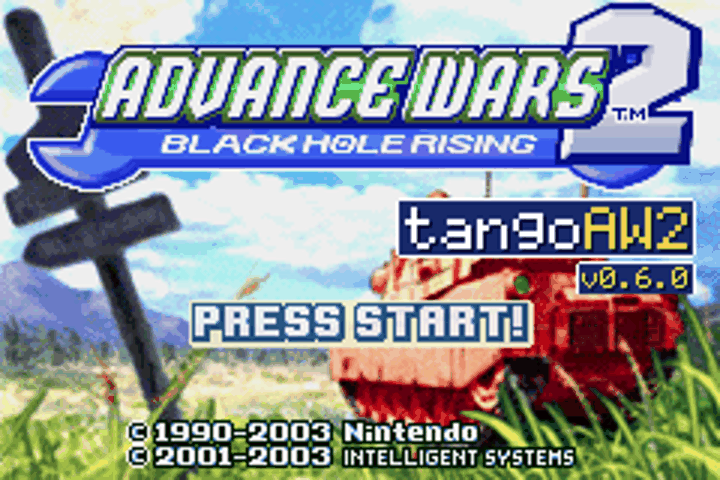
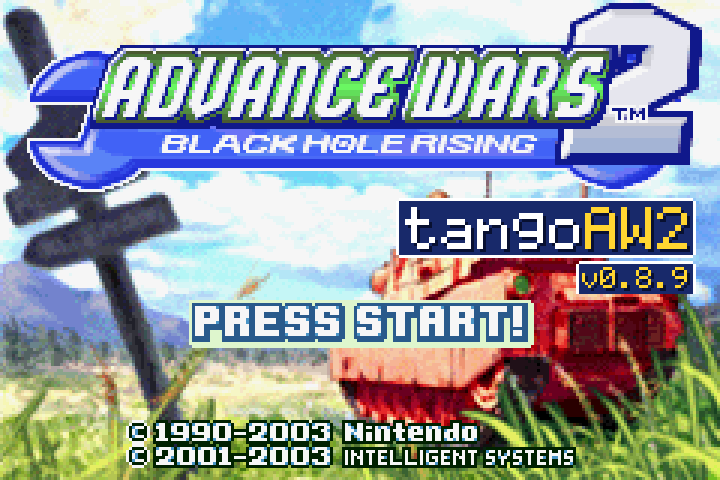
README: new pictures (v0.8.9 title, Emerald Sun Campaign, Emerald Sun Versus, Asuka, BH Campaign) and the Emerald Sun Campaign line

diff --git a/tools/aw2test/tests/test_readme_pictures.py b/tools/aw2test/tests/test_readme_pictures.py
@@ -1,212 +1,82 @@
-"""The README's battle pictures in Dual Strike's look (`-k readme_`, run with TANGOAW2_DS_GRAPHICS=1 TANGOAW2_TILT=1): raw
-240x160 BMPs in the folder named by AW2TEST_SHOWCASE_DIR (scaled 3x nearest to 720x480 PNGs by the caller). The BH
-Campaign's pictures come from test_bh_showcase.py (`-k bh_showcase`), taken with the same two variables."""
+"""Pictures for the README (opt-in: `AW2TEST_README_DIR=<dir> python3 tools/aw2test/run.py -k readme_pictures`): the title screen with the version badge, and a
+picture of every fully typed box of an Emerald Sun mission's intro (`AW2TEST_README_MISSION`, default 1) for choosing the story scene. 240x160 BMPs, plus 3x
+nearest-neighbour PNGs (720x480, the README's size) when PIL is there."""
 
 import os
-import shutil
-import sys
 
-sys.path.insert(0, os.path.dirname(os.path.abspath(__file__)))
-
-from aw2test import dscampaign as dc
-from aw2test import rom as romlib
-from aw2test import twofront as tf
+from aw2test import bhact2 as a2
+from aw2test import escampaign as es
+from aw2test import paths
 from aw2test.emu import Emu
-from aw2test.game import Game
-from aw2test import paths, survival as sv
 from aw2test.harness import test
-from aw2test.save import DesignMap
-
-OUT = os.environ.get("AW2TEST_SHOWCASE_DIR")
+from aw2test.story import clean
 
 
-def keep(ctx, e, name):
-    p = e.shot(os.path.join(ctx.out, name))
-    if OUT:
-        os.makedirs(OUT, exist_ok=True)
-        shutil.copy(p, os.path.join(OUT, name + ".bmp"))
-    return p
-
-
-def settle(g, x, y, frames=40):
-    for _ in range(4):
-        try:
-            g.goto(x, y)
-            break
-        except Exception:
-            g.e.wait(150)
-    g.e.wait(frames)
+def _save(e, out, name):
+    p = e.shot(os.path.join(out, name))
+    try:
+        from PIL import Image
+        im = Image.open(p).convert("RGB")
+        im.resize((im.width * 3, im.height * 3), Image.NEAREST).save(os.path.join(out, name + ".png"))
+    except ImportError:
+        pass
 
 
 @test(modes=("ds",))
-def readme_versus(ctx):
-    # (Black Hole only plays in a five-army map: the other three armies keep to the corners)
-    m = ctx.map(hq=((1, 16, 7), (5, 1, 3), (2, 29, 19), (3, 29, 0), (4, 0, 19)))
-    m.colours = [5, 1, 2, 3, 4]
-    for x in (0, 1, 2, 3):
-        m.terrain(x, 5, "city", 5)
-    for x, y in ((6, 2), (7, 2), (8, 2), (9, 2), (10, 2)):
-        m.terrain(x, y, "city", 0)
-    for x, y in ((14, 2), (15, 2), (16, 4), (17, 4)):
-        m.terrain(x, y, "city", 1)
-    for x in range(4, 16):
-        m.terrain(x, 5, "road")
-    for x, y in ((5, 1), (5, 2), (11, 6), (11, 7), (12, 6), (12, 7), (4, 8), (5, 8), (6, 8), (13, 9), (14, 9)):
-        m.terrain(x, y, "wood")
-    for x, y in ((8, 7), (9, 7), (9, 8)):
-        m.terrain(x, y, "mountain")
-    m.unit(5, "tank", 3, 4).unit(5, "artillery", 2, 4).unit(5, "infantry", 4, 5).unit(5, "recon", 3, 6)
-    m.unit(1, "tank", 14, 6).unit(1, "artillery", 15, 6).unit(1, "infantry", 13, 5).unit(1, "tank", 16, 7)
-    g = ctx.start(m, None)
-    g.e.w8(g.player(5)["addr"] + 0x1D, romlib.co_id("sturm"))
-    e = g.e
-    e.wait(60)
-    for k, (x, y) in enumerate(((3, 4), (2, 3), (4, 5))):
-        settle(g, x, y)
-        keep(ctx, e, f"versus-{k}")
-    e.close()
-
-
-@test(modes=("ds",))
-def readme_second_front(ctx):
-    for mission, tag in ((tf_m, n) for tf_m, n in ((10, "lightning"), (21, "ring"), (24, "means"))):
-        e = Emu(save=paths.base_save(), ds=ctx.ds)
-        g = Game(e, ctx.image)
-        ctx.games.append(g)
-        d = dc.DsCampaign(g)
-        d.start(step=dc.ORDER.index(mission))
-        d.wait_map()
-        d.wait_control()
-        try:
-            tf.set_auto_co(g, False)
-        except Exception as ex:
-            ctx.log(f"{tag}: auto co: {ex}")
-        d.end_turn()
-        e.wait(30)
-        ok = tf.until(e, d, lambda: e.u8(tf.LIVE) == 1 and e.u8(tf.BUSY) == 0 and e.u16(tf.MAP_STATE) == tf.CURSOR_STATE)
-        ctx.log(f"{tag}: second front for the player: {ok} {tf.state(e)}")
+def readme_pictures(ctx):
+    out = os.environ.get("AW2TEST_README_DIR")
+    if not out:
+        return
+    os.makedirs(out, exist_ok=True)
+    e = Emu(save=paths.base_save(), ds=True, env=es.ENV)
+    e.wait(700)
+    e.press("START", 8)
+    for k in range(6):          # (the title screen after the intro is skipped; the badge and its version are drawn on it)
         e.wait(60)
-        keep(ctx, e, f"second-{tag}")
-        e.close()
-
-
-@test(modes=("ds",))
-def readme_laser(ctx):
-    import test_ds_onyx as o
-    e, g, d = o.start(ctx)
-    e.w16(o.CHARGE, o.FULL * 9 // 10 - 3)
-    o.wait_text(e, d, "Check out Black Onyx")
-    d.wait_control()
-    e.w16(o.CHARGE, o.FULL - 3)
-    ctx.require(e.wait_until(lambda: e.u8(o.PHASE) == o.FIRING, 120, step=1), "fires")
-    ctx.require(e.wait_until(lambda: e.u8(o.STRIKE) == 3, 400, step=1), "strike")
-    seen = set()
-    for k in range(200):
-        if e.u8(o.STRIKE) != 3:
-            break
-        t = e.u16(o.STRIKE + 4)
-        b = e.u16(o.BLDCNT)
-        if b == 0x3E41 and e.u16(o.DISPCNT) & 0x100 and t % 6 == 0:
-            keep(ctx, e, f"laser-beam-{t}")
-        if b == 0x00BF and "f" not in seen:
-            seen.add("f")
-            keep(ctx, e, "laser-flash")
-        e.wait(1)
+        _save(e, out, f"title{k}")
     e.close()
+    n = int(os.environ.get("AW2TEST_README_MISSION", "1"))
+    e, g, d = es.boot(ctx, n)
+    d.wait_world_map()
+    d.pick_mission()
+    picks = es.PICKS.get(n, [])
+    if picks:
+        d.choose_cos(len(picks), prefs=list(picks))
+    k = 0
 
+    def boxes(frames, forced=False):
+        """A picture of each box once its text has been typed out (the screen stops changing), A through them; returns when `frames` have passed."""
+        nonlocal k
+        last, stable, spent, saved = None, 0, 0, None
+        while spent < frames:
+            if d.in_setup():
+                d.deploy()
+            t = d.text_shown()
+            stable = stable + 1 if t and t == last else 0
+            last = t
+            if t and stable == 6 and "Save current data" not in t and t != saved:
+                prev = None
+                for _ in range(40):         # (until two shots 12 frames apart are the same picture: typed out, no fade)
+                    cur = open(e.shot(os.path.join(out, "cur")), "rb").read()
+                    if cur == prev:
+                        break
+                    prev = cur
+                    e.wait(12)
+                k += 1
+                saved = t
+                _save(e, out, f"m{n}_{'win' if forced else 'box'}{k:03d}")
+                with open(os.path.join(out, f"m{n}_boxes.txt"), "a") as f:
+                    f.write(f"{k:03d} {clean(t)}\n")
+            if d.scripts_running() and stable >= 20:
+                e.press("A", 4)
+                stable = 0
+            e.wait(4)
+            spent += 4
 
-@test(modes=("ds",))
-def readme_crumb(ctx):
-    m = ctx.map()
-    m.unit(1, "tank", 10, 6).unit(2, "tank", 11, 6)
-    g = ctx.start(m, ["crumb", "jugger"])
-    g.open_map_menu()
-    g.choose("CO", g.MAP_MENU)
-    for k in range(4):
-        g.e.wait(90 if k == 0 else 40)
-        keep(ctx, g.e, f"crumb-{k}")
-    g.e.close()
-
-
-@test(modes=("ds",))
-def readme_teams(ctx):
-    import test_ds_coselect as c
-    e = Emu(save=paths.base_save(), ds=True)
-    g = Game(e, ctx.image)
-    ctx.games.append(g)
-    c.to_five_army_teams(ctx, g)
-    e.wait(60)
-    keep(ctx, e, "teams-0")
-    from aw2test import tag
-    for army in range(5):
-        e.press("START", 6)
-        e.wait(20)
-        for _ in range((2, 3, 5, 7, 9)[army]):
-            e.press("DOWN", 6)
-            e.wait(20)
-        e.press("START", 6)
-        e.wait(20)
-        keep(ctx, e, f"teams-pick{army}")
-        ctx.log(f"army {army}: partners {list(e.read(tag.TEAMS_PARTNER, 5))}")
-        e.press("RIGHT", 6)
-        e.wait(14)
-        e.press("RIGHT", 6)
-        e.wait(14)
-        ctx.log(f"after right: partners {list(e.read(tag.TEAMS_PARTNER, 5))}")
-    e.wait(60)
-    keep(ctx, e, "teams-final")
-    e.close()
-
-
-@test(modes=("ds",))
-def readme_fortress(ctx):
-    import test_bh_review as r
-    from aw2test import bhact2 as a2
-    e, g, d = r.enter(ctx, 28)
-    d.leave_setup()
-    a2.intro(ctx, e, d, "m28", shots=())
-    stable = 0
-    for _ in range(3000):
-        stable = stable + 1 if g.current_army() == 5 and not d.scripts_running() else 0
-        if stable >= 5:
-            break
-        if d.scripts_running():
-            e.press("A", 4)
-        e.wait(20)
-    d.wait_control()
-    g._units_base = g._players_base = None
-    for k, (x, y) in enumerate(((9, 18), (10, 19), (12, 17), (5, 16), (14, 15), (6, 19), (12, 19), (3, 12), (14, 19))):
-        settle(g, x, y, 60)
-        keep(ctx, e, f"fortress-{k}")
-    e.close()
-
-
-@test(modes=("ds",))
-def readme_takeover(ctx):
-    """M30's stage-two takeover: the existing proof test's frames (in this test's folder), HUD and cursor left on."""
-    import test_bh_act5 as t5
-    t5.bh_act5_m30_takeover_proof(ctx)
-
-
-@test(modes=("ds",))
-def readme_laser_lead_in(ctx):
-    """The laser's panel beam before the strike, and the map just after it (the tilt steps aside during the strike itself)."""
-    import test_ds_onyx as o
-    e, g, d = o.start(ctx)
-    e.w16(o.CHARGE, o.FULL * 9 // 10 - 3)
-    o.wait_text(e, d, "Check out Black Onyx")
-    d.wait_control()
-    e.w16(o.CHARGE, o.FULL - 3)
-    ctx.require(e.wait_until(lambda: e.u8(o.PHASE) == o.FIRING, 120, step=1), "fires")
-    for k in range(60):
-        if e.u8(o.STRIKE) == 3:
-            break
-        if k % 3 == 0:
-            keep(ctx, e, f"lead-{k:02d}")
-        e.wait(2)
-    while e.u8(o.STRIKE) == 3:
-        e.wait(1)
-    for k in range(6):
-        e.wait(10)
-        keep(ctx, e, f"after-{k}")
+    boxes(int(os.environ.get("AW2TEST_README_FRAMES", "6000")))
+    if os.environ.get("AW2TEST_README_WIN"):
+        d.wait_control()
+        g._units_base = g._players_base = None
+        d.force_win()
+        boxes(6000, forced=True)
     e.close()

diff --git a/README.md b/README.md
@@ -9,9 +9,13 @@ No game is included: you need your own dump of the USA cartridge.
 
 <table>
 <tr>
-<td><img src="docs/screenshots/menu-title-tangoaw2.png" width="240" alt="The title screen with the tangoAW2 version badge"></td>
+<td><img src="docs/screenshots/menu-title-tangoaw2.png" width="240" alt="The title screen with the tangoAW2 version badge (v0.8.9)"></td>
+<td><img src="docs/screenshots/es-campaign-story.png" width="240" alt="Klaus briefing the legion on the beach in the Emerald Sun Campaign"></td>
+<td><img src="docs/screenshots/es-versus.png" width="240" alt="A Versus battle: Emerald Sun's plumed legionaries and domed HQ against Black Hole"></td>
+</tr>
+<tr>
+<td><img src="docs/screenshots/asuka-co.png" width="240" alt="Asuka's Intel power cut-in"></td>
 <td><img src="docs/screenshots/bh-story.png" width="240" alt="Sturm offering Von Bolt a place at his side in the BH Campaign"></td>
-<td><img src="docs/screenshots/black-hole-versus.png" width="240" alt="A Versus battle"></td>
 </tr>
 </table>
 
@@ -65,7 +69,9 @@ your army and kept in your settings).
 - **Emerald Sun**, a sixth army (a pale emerald-grey one with
   masked, red-plumed legionaries and a domed HQ), is a sixth choice next to the five armies'
   colours on SELECT YOUR ARMY, online and offline: any seat on any map can be
-  Emerald Sun, with any combination of the others.
+  Emerald Sun, with any combination of the others. Its four Roman COs
+  (Klaus, Aurelia, Cassius, Livia) are in Versus, and its 16-mission Campaign is
+  on Select Mode's Campaign list (Dual Strike pack).
 - Maps that need the Dual Strike pack (its units or art, such as the 5-army
   **Pentagon Atoll**) are offered only when every player has the pack.
 - Only the army whose turn it is can be moved; the others watch the turn

diff --git a/docs/dev/release.md b/docs/dev/release.md
@@ -35,3 +35,5 @@ Expect assets: macOS dmg, Windows exe + pdb, Linux AppImage + debug, iOS ipa. Us
 COs in Versus (`es_co::in_versus`) **on by default, no environment variables**, the self-updater off, and everything of its own so it installs beside the real app: bundle id `net.n1gp.TangoAW2Playtest`,
 name "TangoAW2 Playtest", settings under `net.n1gp.tangoaw2-playtest`, data under `~/Documents/TangoAW2-Playtest` (a fresh install: point it at your ROMs once, in its Settings). It installs nothing
 and never touches `/Applications/TangoAW2.app` or its settings, ROMs and saves. The campaign's save slot (Flash slot 11) lives in the playtest's own saves.
+
+README pictures: `AW2TEST_README_DIR=<dir> python3 tools/aw2test/run.py -k readme_pictures` (title screen with the version badge, every box of an Emerald Sun mission's intro; `AW2TEST_README_MISSION`, `AW2TEST_README_WIN=1` for the victory scenes), `-k bh_showcase` (BH shots, `AW2TEST_SHOWCASE_DIR`), `aw2dev co portrait ingame asuka`, `aw2dev armyskin scenario` (Versus with the skin); scale the 240x160 BMPs 3x nearest into `docs/screenshots/`.
